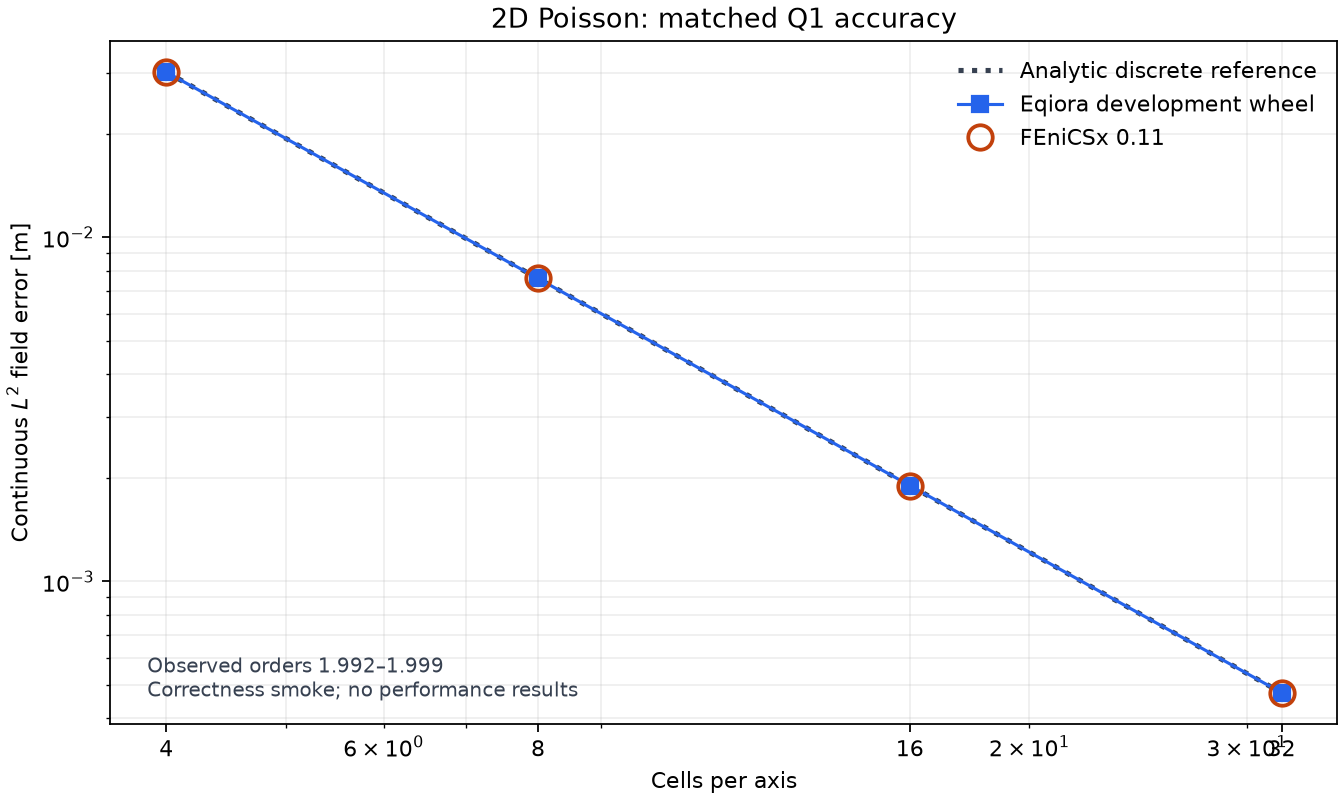
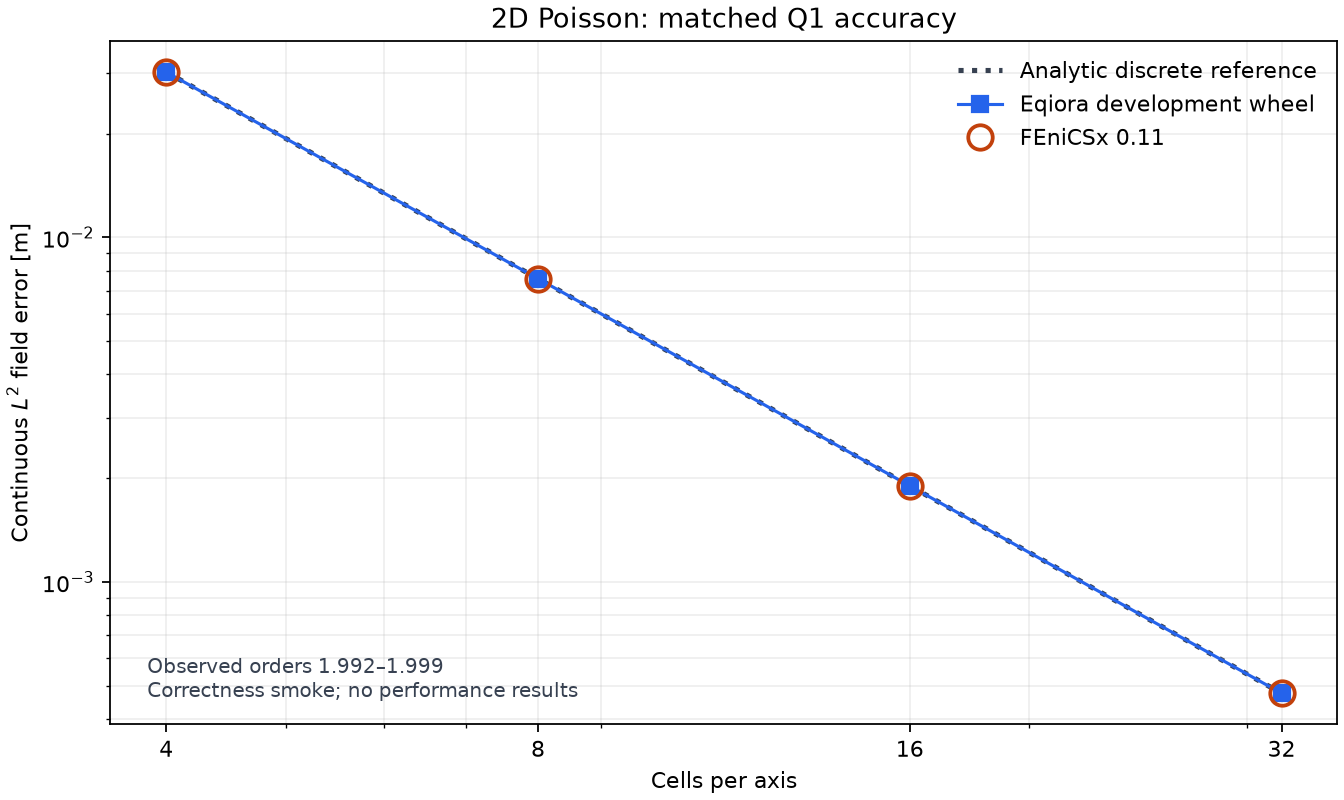
Preserve accuracy plot producer and remove overlapping minor tick labels

diff --git a/tools/benchmarks/poisson_fenicsx/plot_accuracy.py b/tools/benchmarks/poisson_fenicsx/plot_accuracy.py
@@ -1,0 +1,61 @@
+"""Reproduce the accuracy-only figure from validated public observations."""
+from __future__ import annotations
+
+import argparse
+import json
+import math
+from pathlib import Path
+
+import matplotlib
+matplotlib.use("Agg")
+import matplotlib.pyplot as plt
+from matplotlib.ticker import NullFormatter
+import numpy as np
+
+from accuracy import LEVELS, ROOT, check_accuracy
+
+
+def main():
+    parser = argparse.ArgumentParser(description=__doc__)
+    parser.add_argument("--receipt", type=Path, default=ROOT / "docs/performance/2026-11-05-poisson-fenicsx-correctness.json")
+    parser.add_argument("--output", type=Path, default=ROOT / "docs/performance/2026-11-05-poisson-fenicsx-accuracy.png")
+    args = parser.parse_args()
+    data = json.loads(args.receipt.read_text())
+    rows = {tool: sorted((row for row in data["rows"] if row["tool"] == tool),
+                         key=lambda row: row["cells_per_axis"]) for tool in ("eqiora", "fenicsx")}
+    references = {}
+    for group in rows.values():
+        if tuple(row["cells_per_axis"] for row in group) != LEVELS:
+            raise ValueError("figure requires the four declared mesh levels for both tools")
+        for row in group:
+            n = row["cells_per_axis"]
+            coordinates = np.array([(i/n, j/n) for i in range(n+1) for j in range(n+1)])
+            values = np.array([float.fromhex(value) for value in row["nodal_values_float64_hex"]])
+            checked = check_accuracy(coordinates, values, n)
+            references[n] = checked["analytic_discrete_l2"]
+            observed = row["accuracy"]["continuous_l2"]
+            if not math.isfinite(observed) or abs(observed-checked["continuous_l2"]) > checked["comparison_allowance"]:
+                raise ValueError("figure's reported error differs from its observed field")
+
+    fig, ax = plt.subplots(figsize=(8.4, 5), layout="constrained")
+    ax.loglog(LEVELS, [references[n] for n in LEVELS],
+              color="#374151", ls=":", lw=2.3, label="Analytic discrete reference", zorder=1)
+    ax.loglog(LEVELS, [row["accuracy"]["continuous_l2"] for row in rows["eqiora"]],
+              color="#2563eb", marker="s", ms=7, lw=1.4, label="Eqiora development wheel", zorder=2)
+    ax.loglog(LEVELS, [row["accuracy"]["continuous_l2"] for row in rows["fenicsx"]],
+              color="#c2410c", marker="o", mfc="none", mew=1.7, ms=11, lw=0, label="FEniCSx 0.11", zorder=3)
+    ax.set_xticks(LEVELS, labels=[str(n) for n in LEVELS])
+    ax.xaxis.set_minor_formatter(NullFormatter())
+    ax.set_xlabel("Cells per axis")
+    ax.set_ylabel(r"Continuous $L^2$ field error [m]")
+    ax.set_title("2D Poisson: matched Q1 accuracy")
+    ax.grid(True, which="both", alpha=.2)
+    ax.legend(frameon=False)
+    ax.text(.03, .04, "Observed orders 1.992–1.999\nCorrectness smoke; no performance results",
+            transform=ax.transAxes, fontsize=9, color="#374151")
+    fig.savefig(args.output, dpi=160)
+    print(args.output)
+
+
+if __name__ == "__main__":
+    main()

diff --git a/docs/performance/2026-11-05-poisson-fenicsx-correctness.md b/docs/performance/2026-11-05-poisson-fenicsx-correctness.md
@@ -76,3 +76,10 @@ standalone analytic and admission tests also pass.
 This report advances the two-dimensional accuracy part of the external
 comparison. A complete performance report still needs authenticated optimized
 builds, matched operation scopes and a quiet, recorded environment.
+
+Recreate the figure from the receipt, without either native library:
+
+```bash
+uv run --no-project --python 3.13 --with matplotlib==3.11.1 \
+  python tools/benchmarks/poisson_fenicsx/plot_accuracy.py
+```
